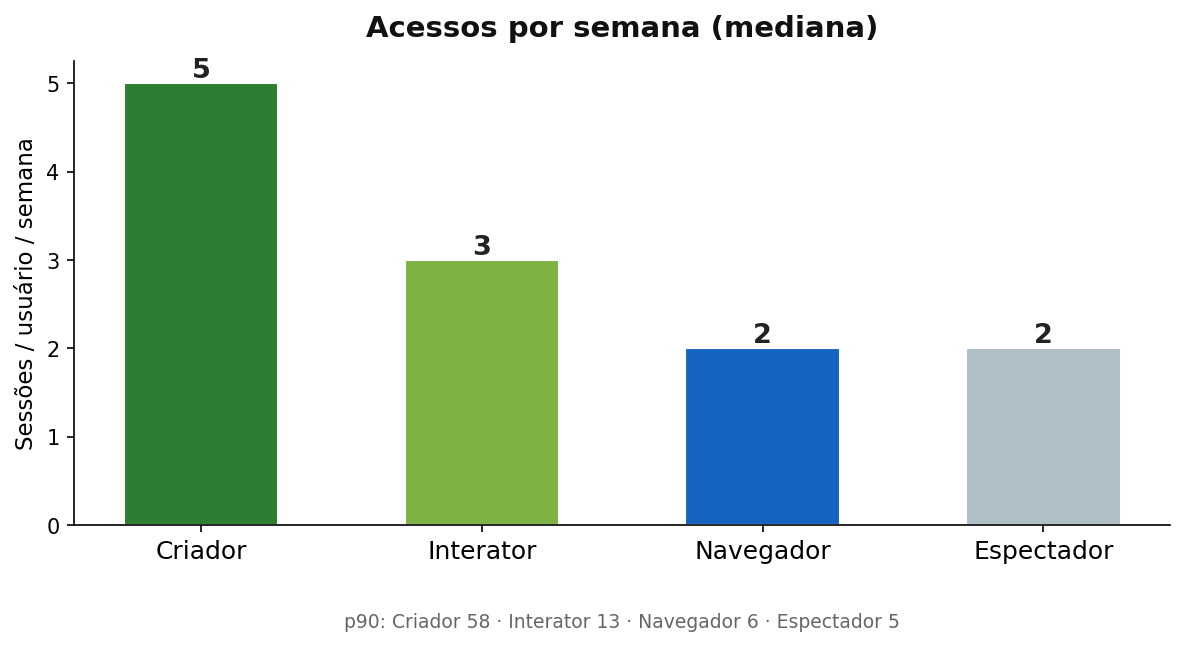
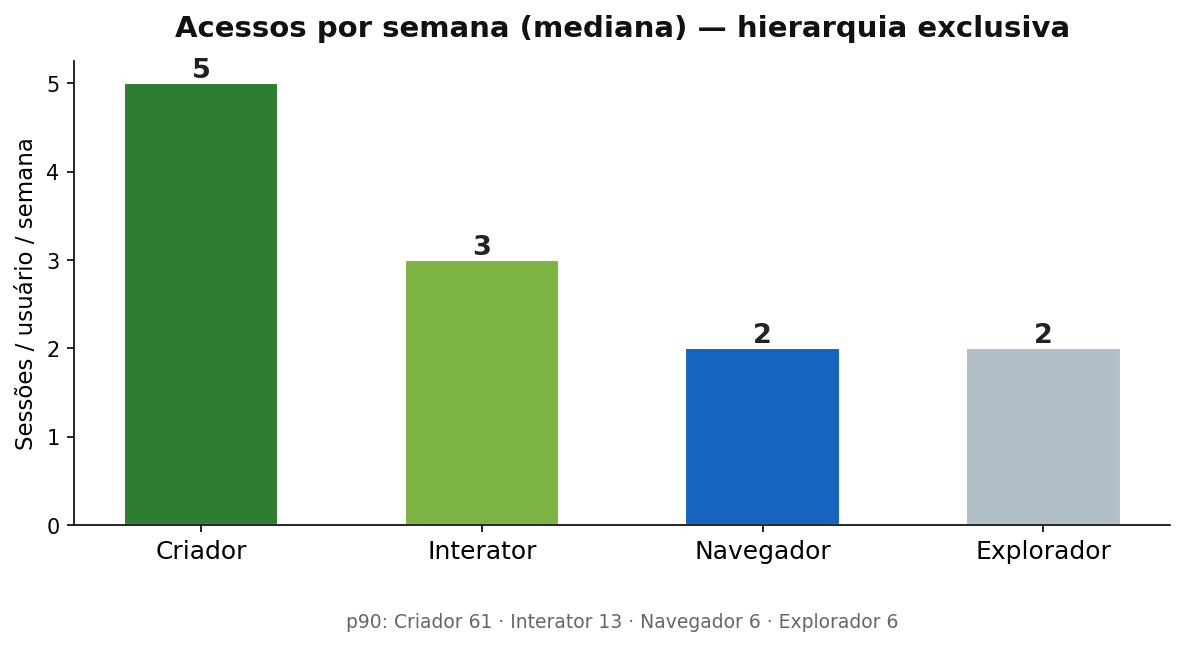
perfis v2: hierarquia exclusiva so cadastrados (251) + graficos atualizados

Changed region(s): [[0.281, 0.9288, 0.7494, 0.9907], [0.1249, 0.031, 0.9055, 0.0619], [0.8118, 0.8359, 0.9367, 0.8669]]

diff --git a/analises/2026-08-07-perfis-apresentacao.md b/analises/2026-08-07-perfis-apresentacao.md
@@ -1,54 +1,69 @@
-# Perfis de Usuário Gomo — Material de Apresentação
+# Perfis de Usuário Gomo — Material de Apresentação (v2 — hierarquia exclusiva)
 Data: 2026-08-07 · Autor: Gomes · Solicitante: Mairon Carvalho
-Base: análise comportamental PostHog 30d (05/jul–03/ago) para classificação, 7d (28/jul–03/ago) para medição. WAU = 385 (inclui device-only). Ground truth cadastro: tabela `users` (1.604).
+Base: análise comportamental PostHog 30d (05/jul–03/ago) para classificação, 7d (28/jul–03/ago) para medição.
 
-## Mapa dos 4 perfis (1 slide)
+## Regras da segmentação (v2)
+1. **Somente usuários COM conta** (interseção com tabela `users` — 1.604 cadastrados). WAU cadastrado = 251 (de 385).
+2. **Mutuamente exclusivo** — cada usuário pertence a exatamente 1 perfil, definido pelo comportamento de maior nível que executou em 30d. Hierarquia: **Criador > Interator > Navegador > Explorador**.
+3. Prova de exclusividade: soma dos perfis = 251 = total de usuários (zero dupla contagem).
 
-| Perfil | WAU | % | Acessos/sem (mediana) | Duração sessão | Com conta | Job-to-be-done |
+## Mapa dos 4 perfis (1 slide) — WAU com conta = 251
+
+| Perfil | WAU | % | Acessos/sem (mediana) | p90 | Duração sessão | Regra de classificação |
 |---|---|---|---|---|---|---|
-| **Criador** (ex-Influencer) | 116 | 30% | **5** (p90: 58) | ~38s | 95% | Produzir conteúdo que alimenta a comunidade |
-| **Interator** (ex-Sociável) | 18 | 5% | 3 | ~20s | 100% | Validar/amplificar conteúdo alheio |
-| **Navegador** (ex-Explorador) | 49 | 13% | 2 | ~27–41s | 100% | Decidir onde comer |
-| **Espectador** | 202 | 53% | 2 | ~15–20s | 37% | (sem job claro — não ativou) |
+| **Criador** | 110 | 43,8% | **5** | 61 | ~36s | Review OU lista OU comentário em 30d |
+| **Interator** | 18 | 7,2% | 3 | 13 | ~20s | Reação/like/follow/share (sem criar) |
+| **Navegador** | 49 | 19,5% | 2 | 6 | ~27s | View de restaurante/busca/mapa/ranking |
+| **Explorador** | 74 | 29,5% | 2 | 6 | ~19s | Nada rastreado além da sessão |
 
 ## Slide por perfil
 
-### 1. Criador — 116 WAU (30%) — o motor de conteúdo
-**Comportamento no app:** cria review (1.712 em 30d, mediana 3/usuário), lista e comenta; 36% também reage — criação e interação andam juntas. Sessão mais longa (~38s) e mais frequente (5/sem, p90 58).
-**O que defende o perfil:** top 5 = 40% das reviews, top 20 = 77%. Sem eles não há feed. O backend só marca 2 usuários como `influenciador` — a base comportamental é 58× maior que a flag manual.
+### 1. Criador — 110 WAU (43,8%) — o motor de conteúdo
+**Comportamento no app:** cria review (1.696 em 30d, mediana 3,5/usuário), lista e comenta. Sessão mais longa (~36s) e mais frequente (5/sem, p90 61). 36% também reagem — criação e interação andam juntas (composição interna do perfil, não dupla contagem).
+**O que defende o perfil:** top 5 = 41% das reviews, top 10 = 58%, top 20 = 78%. Sem eles não há feed. O backend só marca 2 usuários como `influenciador` — a base comportamental é 55× maior que a flag manual.
 **Risco:** dependência de ~20 pessoas para a saúde do feed.
 **Onde melhorar:** programa de creators (flag já existe no backend) para escalar de 2 → 20+; reconhecimento/gamificação para quem cria.
 
-### 2. Interator — 18 WAU (5%) — o estágio inicial
-**Comportamento no app:** reage (50% do grupo só reage), curte, segue; comenta pouco (9 comentários em 7d no app inteiro). 3 acessos/sem, sessão ~20s.
-**O que defende o perfil:** 100% com conta; está a 1 passo da criação — 36% dos Criadores passaram por aqui.
+### 2. Interator — 18 WAU (7,2%) — o estágio inicial
+**Comportamento no app:** reage/curte/seguem (50% do grupo só reage); comenta pouco (9 comentários em 7d no app inteiro). 3 acessos/sem, sessão ~20s.
+**O que defende o perfil:** 100% com conta; está a 1 passo da criação — 36% dos Criadores também reagem (interação precede criação).
 **Leitura:** é estágio de transição, não persona durável (por isso o merge faz sentido — mas vale apresentar separado para mostrar o funil).
 **Onde melhorar:** transformar reação em milestone de ativação — nudge pós-reação ("viu algo bom? conta pra gente"), CTA para primeira review.
 
-### 3. Navegador — 49 WAU (13%) — o público-alvo do core value
-**Comportamento no app:** puro discovery — 103 views de restaurante, 35 buscas, 15 rankings, 16 coleções vistas, 13 mapas em 30d. Zero criação, zero interação. 2 acessos/sem, mas sessão de leitura longa (27–41s) — é o perfil que mais lê por visita.
+### 3. Navegador — 49 WAU (19,5%) — o público-alvo do core value
+**Comportamento no app:** puro discovery — 103 views de restaurante, 35 buscas, 15 rankings, 16 coleções vistas, 13 mapas em 30d. Zero criação, zero interação. 2 acessos/sem, sessão de leitura (~27s) acima de Explorador.
 **O que defende o perfil:** 100% cadastrados (intenção real de uso); job é exatamente "onde vou comer" — a promessa central do Gomo.
 **Onde melhorar:** é o perfil que valida o produto, mas é raso (2,1 views/usuário/30d) — medir conversão leitura→decisão (salvar em coleção, chamar rota); testar feed de lugares, recomendações personalizadas, "perto de mim".
 
-### 4. Espectador — 202 WAU (53%) — falha de ativação, não persona
-**Comportamento no app:** abre o app 2×/semana e sai. 63% nem têm conta (device-only). Dos 74 registrados: 57% abre-e-sai; **20% abriu o fluxo de review e abandonou** (17 abandonos); 15% navega feed/tabs sem entrar em restaurante; **zero** taps em card de restaurante.
+### 4. Explorador — 74 WAU (29,5%) — falha de ativação, não persona
+**Comportamento no app:** abre o app 2×/semana e sai, sem nenhuma ação rastreada além da sessão (em 30d: 850 cadastrados — 60,6% — se comportam assim). Dos 74: 57% abre-e-sai; **20% abriu o fluxo de review e abandonou** (17 abandonos); 15% navega feed/tabs sem entrar em restaurante; **zero** taps em card de restaurante.
 **O que defende o diagnóstico:** 73/74 emitem autocapture (2.986 eventos) — interagem com a UI, mas quase nada vira ação semântica. Rolam o feed de *pessoas* (14) mas nunca o de *lugares* (0).
-**Leitura:** o maior grupo do WAU é o que menos entrega valor — e metade dele nem conta tem.
+**Leitura:** o maior grupo do WAU é o que menos entrega valor.
 **Onde melhorar:** (a) corrigir o elo feed → detalhe do restaurante (0 card taps — pode ser bug de tracking ou de UI); (b) onboarding orientado a discovery (busca antes de review); (c) reduzir fricção do fluxo de review (17 abandonos).
 
 ## Insights priorizados (onde podemos melhorar)
-1. **Funil feed → restaurante quebrado** — 0 card taps nos Espectadores: o app não converte leitura de review em intenção de "onde comer". Instrumentar `restaurant_card_tapped` e testar CTA de entrada no restaurante. [Owner: Engenharia + Product]
-2. **Ativação:** 53% do WAU não tem conta e 63% dos Espectadores não cadastram. Testar onboarding discovery-first (buscar restaurante antes de pedir review). [Owner: Growth]
-3. **Concentração de conteúdo:** 77% das reviews vêm de 20 pessoas. Escalar programa de creators de 2 → 20+. [Owner: Comunidade]
-4. **Interator é atalho:** nudge pós-reação para primeira criação — 20% dos Espectadores já tentaram criar e abandonaram. [Owner: Product]
+1. **Funil feed → restaurante quebrado** — 0 card taps nos Exploradores: o app não converte leitura de review em intenção de "onde comer". Instrumentar `restaurant_card_tapped` e testar CTA de entrada no restaurante. [Owner: Engenharia + Product]
+2. **Ativação:** 74 usuários com conta (29,5% do WAU cadastrado) não navegam; em 30d são 850 (60,6%). Testar onboarding discovery-first (buscar restaurante antes de pedir review). [Owner: Growth]
+3. **Concentração de conteúdo:** 78% das reviews vêm de 20 pessoas. Escalar programa de creators de 2 → 20+. [Owner: Comunidade]
+4. **Interator é atalho:** nudge pós-reação para primeira criação — 20% dos Exploradores já tentaram criar e abandonaram. [Owner: Product]
 5. **Share não sustenta perfil:** 0,9% dos ativos compartilham em 30d; invite sem tracking. Instrumentar antes de investir em share. [Owner: Engenharia]
 
+## Comparativo v1 (todos) vs v2 (só cadastrados)
+| Perfil | v1 WAU total (385) | v2 WAU com conta (251) |
+|---|---|---|
+| Criador | 116 (30%) | 110 (43,8%) |
+| Interator | 18 (5%) | 18 (7,2%) |
+| Navegador | 49 (13%) | 49 (19,5%) |
+| Explorador (ex-Espectador) | 202 (53%) | 74 (29,5%) |
+
+O filtro de conta corta o Explorador em 63% — a maior parte dele era device-only (sem conta). Nos demais perfis quase não muda (≥95% já tinham conta).
+
 ## Limitações (levar para a apresentação)
-- Duração de sessão cobre ~44 usuários no WAU (`app_session_ended` esparso) — gradiente direcional.
-- WAU conta distinct_id (dispositivo), não conta — Espectador inclui reinstalações.
+- Duração de sessão cobre 8–13 usuários por perfil (`app_session_ended` esparso) — gradiente direcional.
+- WAU conta distinct_id (dispositivo), não conta — Explorador pode incluir reinstalações.
 - Comentários/share têm n pequeno — conclusões direcionais.
 
 ## Gráficos (um por métrica — /charts/)
-- `perfis_wau.png` — distribuição do WAU
-- `perfis_acessos.png` — acessos/semana por perfil
-- `perfis_duracao.png` — duração de sessão por perfil
+- `perfis_wau.png` — distribuição do WAU com conta (v2)
+- `perfis_acessos.png` — acessos/semana por perfil (v2)
+- `perfis_duracao.png` — duração de sessão por perfil (v2)
